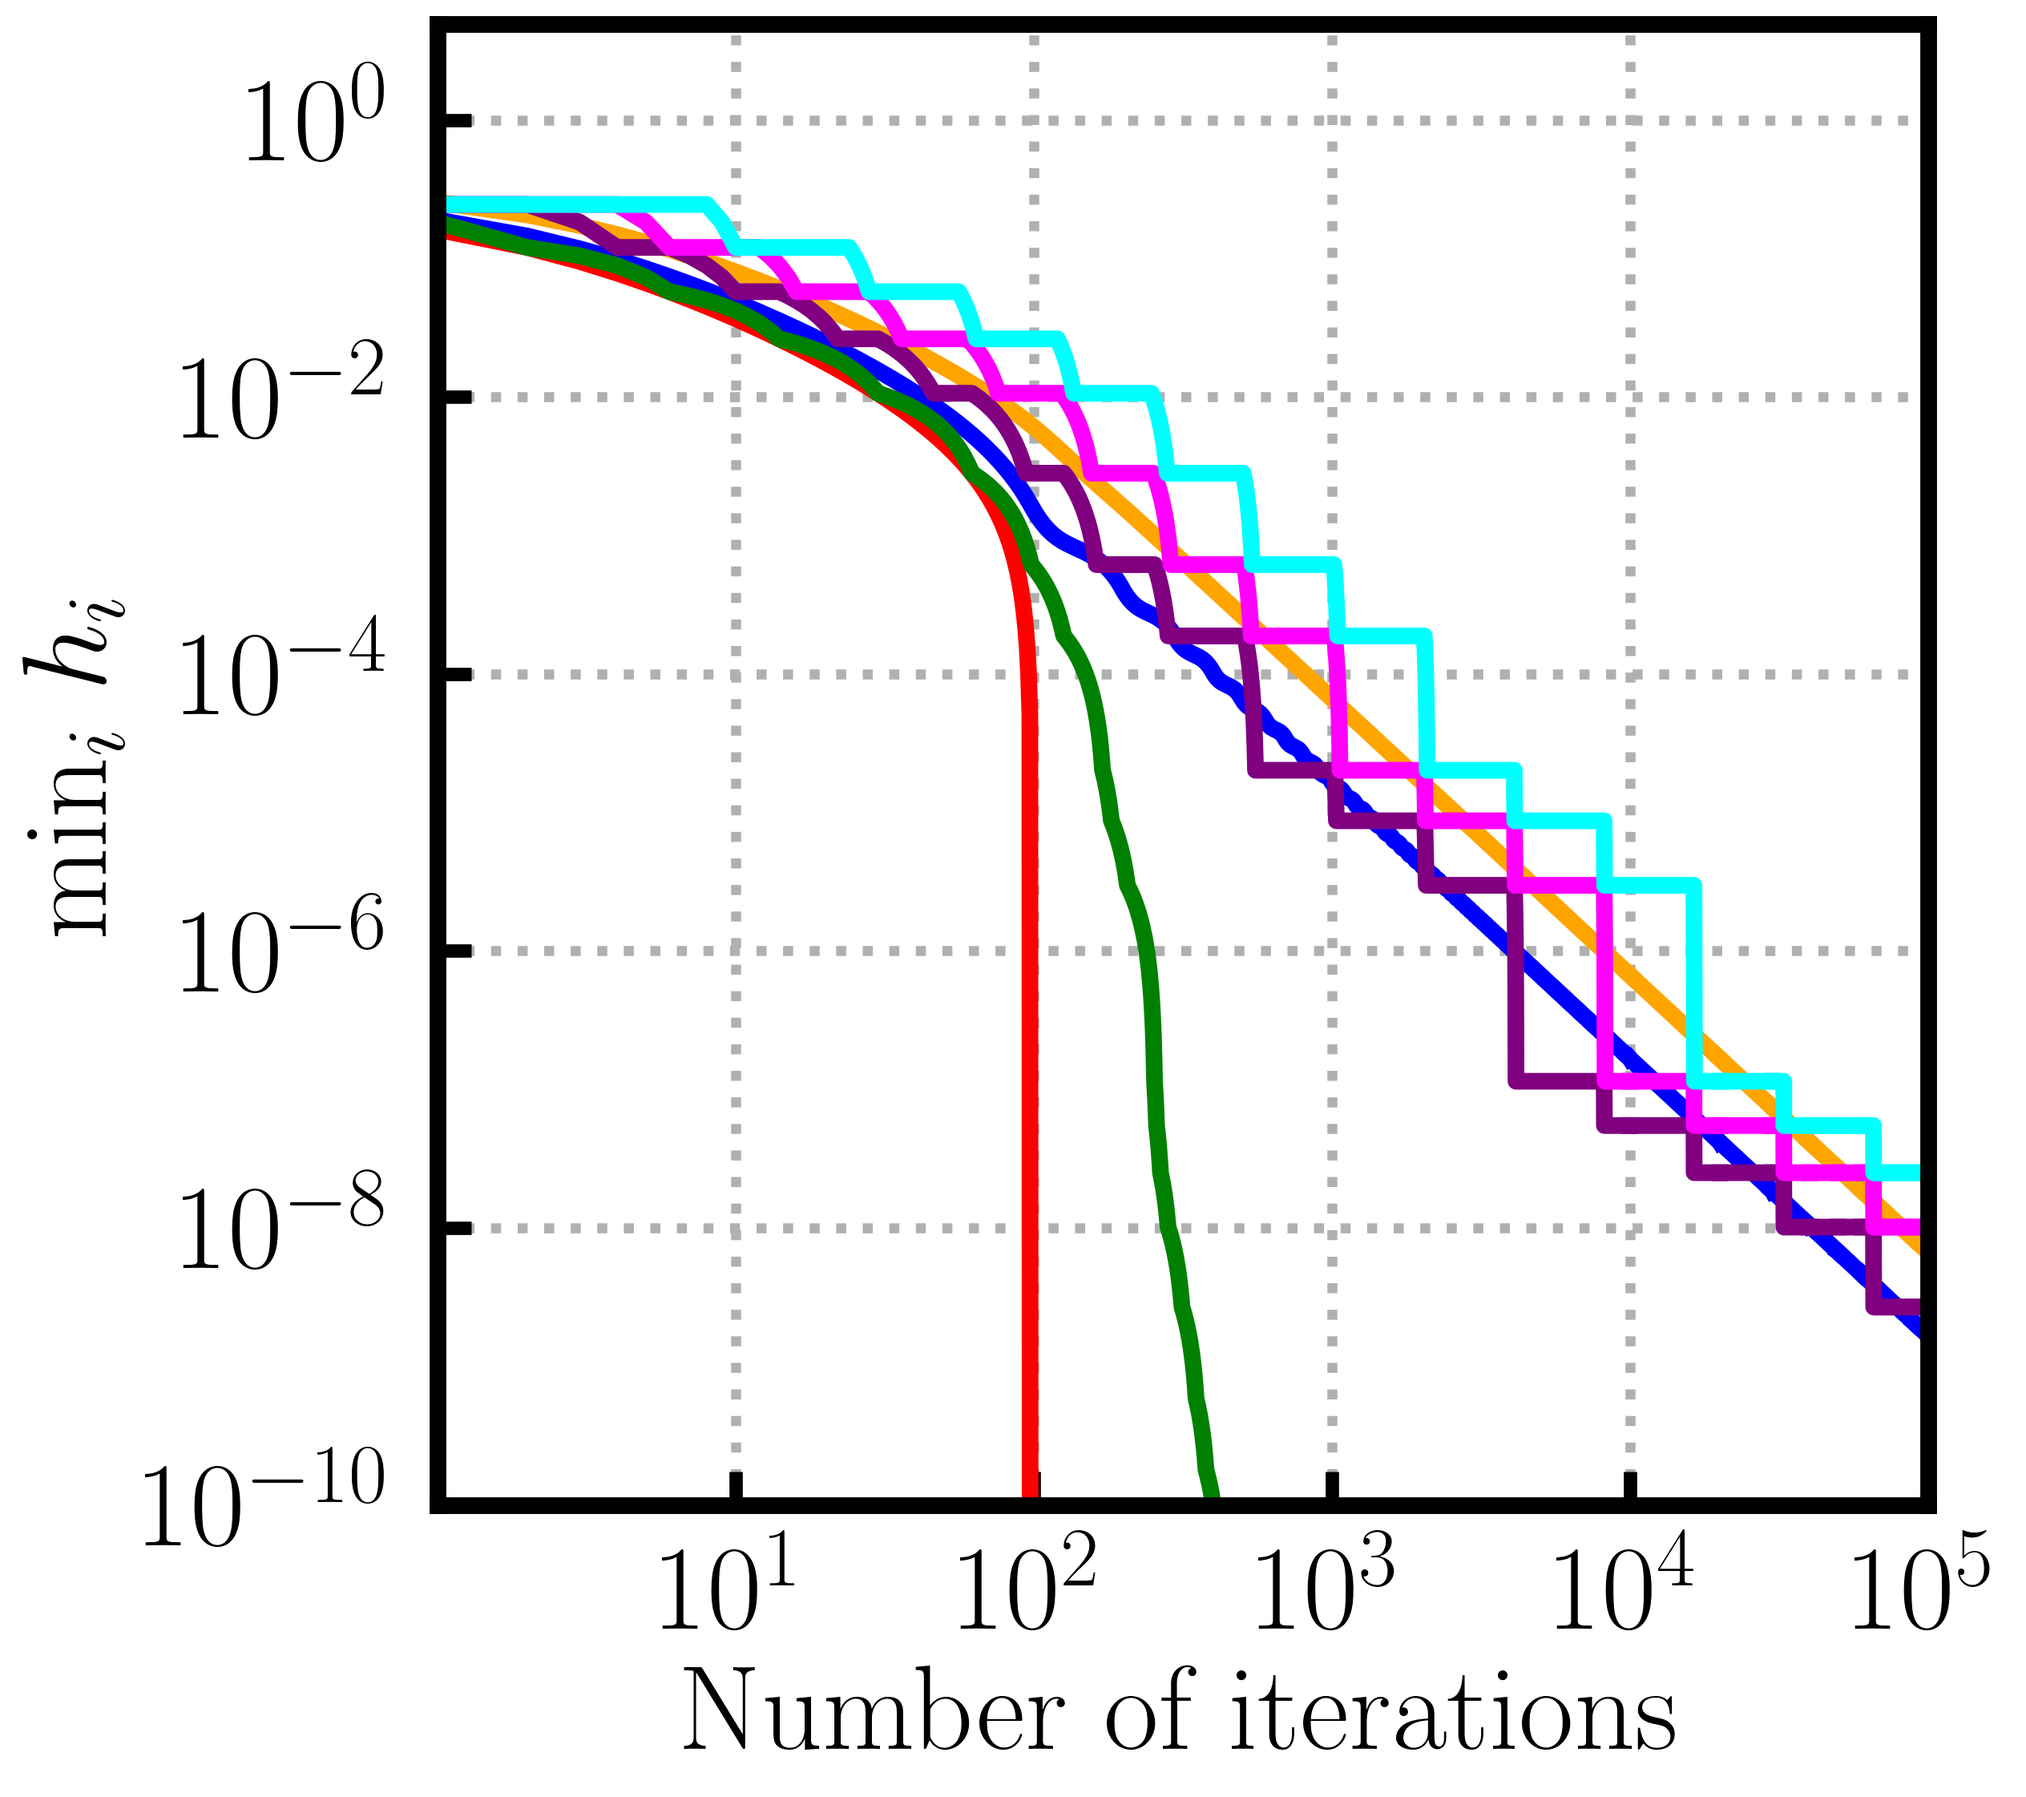
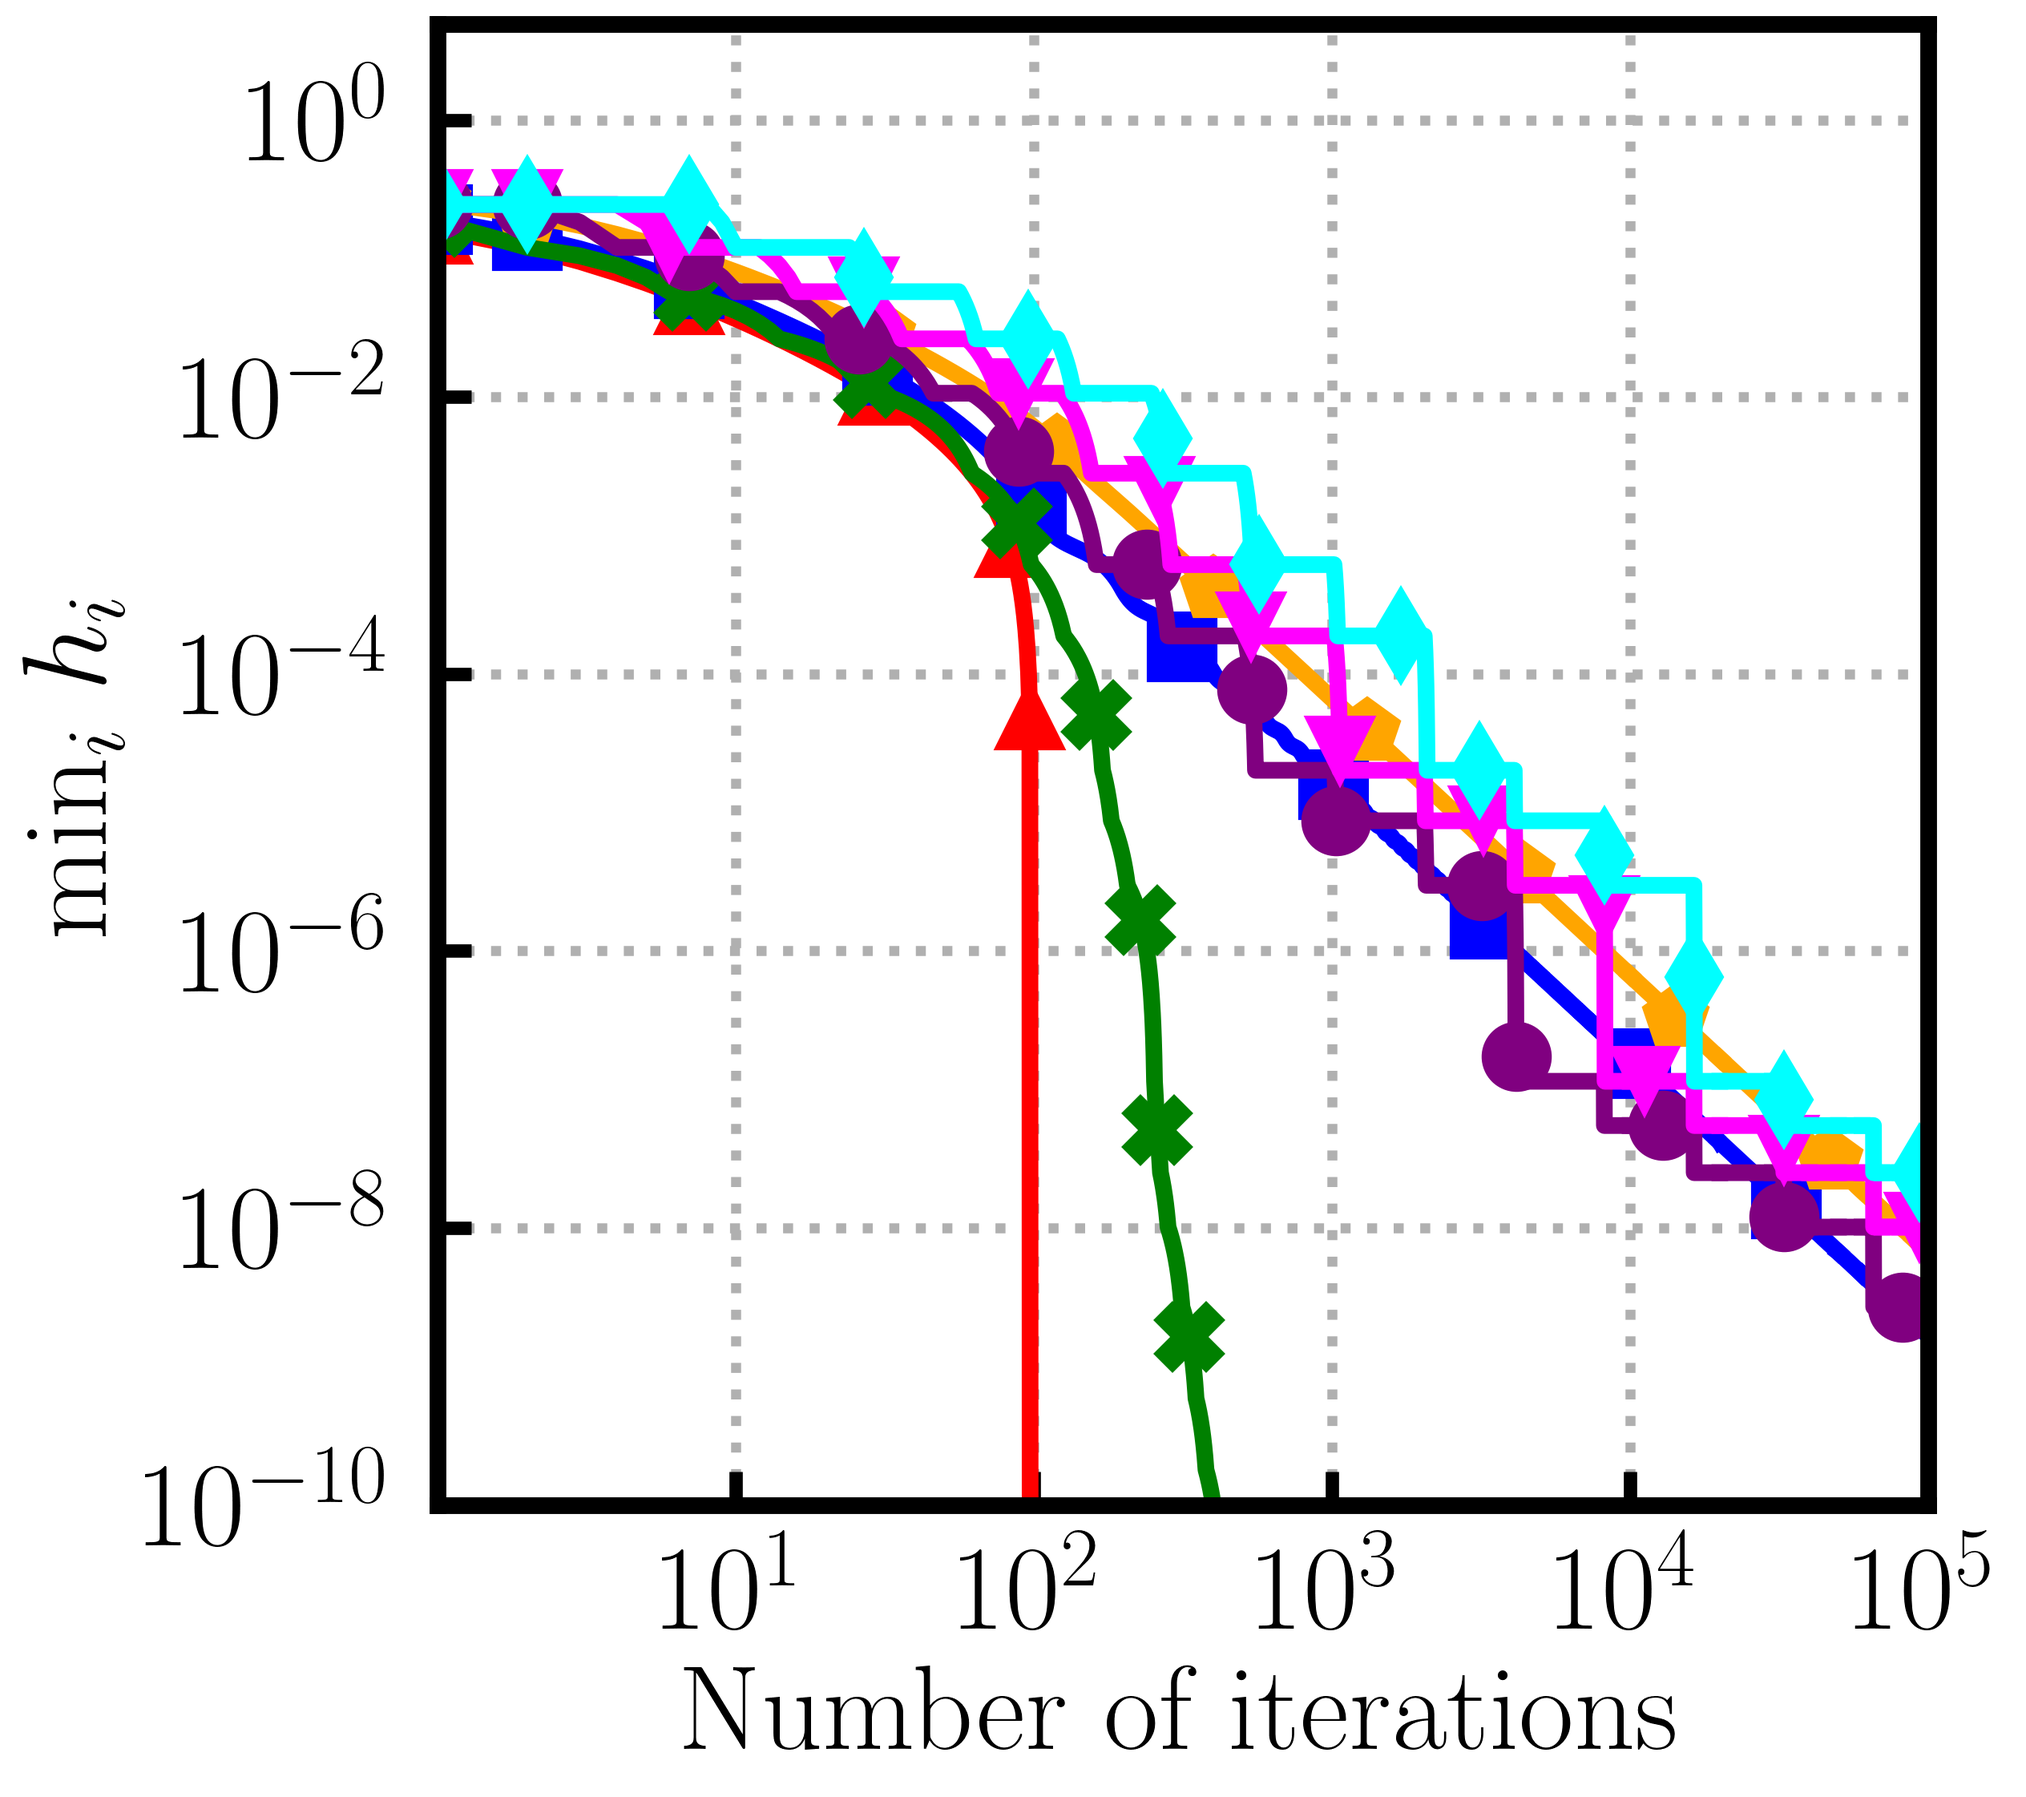
.

diff --git a/all_functions/plotting.py b/all_functions/plotting.py
@@ -49,6 +49,9 @@ def primal_gap_plotter(y_data: list,
                        linewidth: float = LINEWIDTH,
                        styles: list = STYLES,
                        colors: list = COLORS,
+                       markers: list = MARKERS,
+                       marker_size: int = MARKER_SIZE,
+                       mark_every: float = MARK_EVERY,
                        fontsize: int = FONT_SIZE,
                        fontsize_legend: int = FONT_SIZE_LEGEND,
                        legend: bool = True):
@@ -84,6 +87,12 @@ def primal_gap_plotter(y_data: list,
             (Default is STYLES.)
         colors: list, Optional
             (Default is COLORS.)
+        markers: list, Optional
+            (Default is MARKERS.)
+        marker_size: int, Optional
+            (Default is MARKER_SIZE.)
+        mark_every: float, Optional
+            (Default is MARK_EVERY.)
         fontsize: int, Optional
             (Default is FONT_SIZE.)
         fontsize_legend: int, Optional
@@ -101,8 +110,8 @@ def primal_gap_plotter(y_data: list,
     plt.rcParams['text.usetex'] = True
 
     for i in range(0, len(y_data)):
-        plt.plot(y_data[i], linestyle=styles[i], color=colors[i], label=labels[i],
-                 linewidth=linewidth)
+        plt.plot(y_data[i], linestyle=styles[i], color=colors[i], label=labels[i], linewidth=linewidth,
+                 marker=markers[i], markersize=marker_size, markevery=mark_every)
     if legend:
         plt.legend(fontsize=fontsize_legend, loc="upper right")
     plt.title(title, fontsize=fontsize)

diff --git a/global_.py b/global_.py
@@ -3,9 +3,12 @@
 
 STYLES = ['-', '-', '-', '-', '-', '-', '-', '-', '-', '-', '-', '-', '-', '-', '-', '-', '-', '-']
 COLORS = [ 'red', 'blue', 'orange',  'green', 'purple', 'magenta', 'cyan', 'olive']
-MARKERS = ['o', 's', 'v', 'd', 'x', 'o', 's', 'v', 'd', 'x', 'o', 's', 'v', 'd', 'x', 'o', 's', 'v', 'd', 'x',
-           's', 'v', 'd', 'x', 'o', 's', 'v', 'd', 'x', 'o', 's', 'v', 'd', 'x', 'o', 's', 'v', 'd', 'x', 'o',
-           'v', 'd', 'x', 'o', 's', 'v', 'd', 'x', 'o', 's', 'v', 'd', 'x', 'o', 's', 'v', 'd', 'x', 'o', 's']
+
+
+
+MARKERS = ['^', 's', 'p', 'X', 'o', 'v', 'd']
+MARKER_SIZE = 20
+MARK_EVERY = 0.1
 LINEWIDTH = 5
 FONT_SIZE = 36
 FONT_SIZE_LEGEND = 28

diff --git a/experiments/presentation_experiments.py b/experiments/presentation_experiments.py
@@ -39,8 +39,6 @@ for rho in rhos:
                        legend=legend
                        )
 
-
-
 # %%%%%%%%%%%%%%%%%%%%%%%%%%%%%%%%%%%%%%%%%%%%%%%%%
 
 
